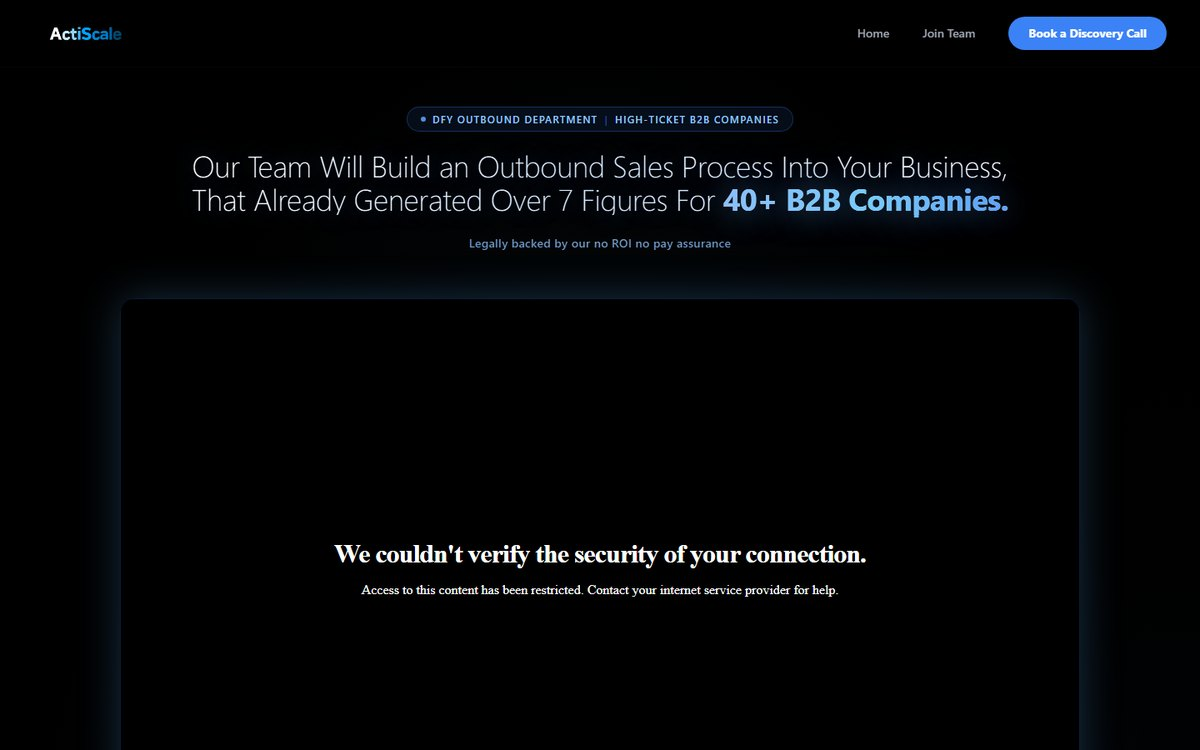
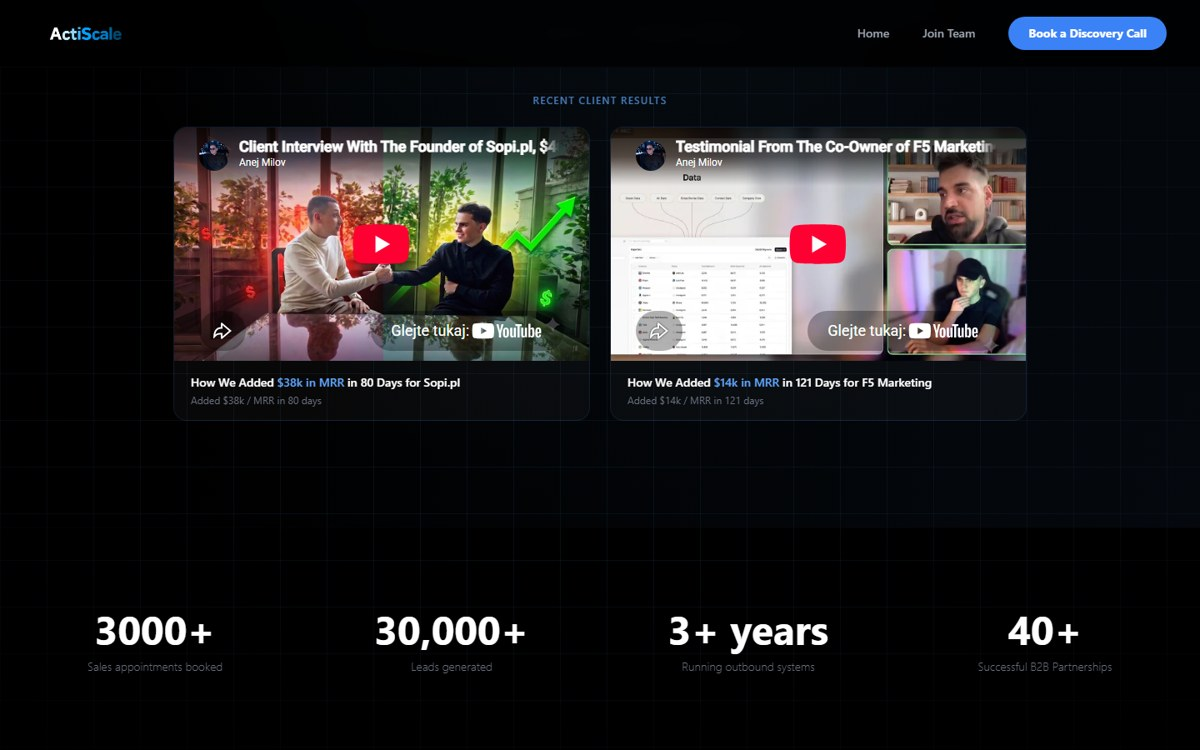
Deck: ACTISCALE, results screenshot + video line

diff --git a/actiscale/index.html b/actiscale/index.html
@@ -141,7 +141,7 @@ p{margin:0}
   <div class="eyebrow in">What we saw</div>
   <h2 class="in">What we saw at <span class="mark">ACTISCALE</span></h2>
   <div class="saw in">
-    <div class="lines"><p>A done for you outbound department for high ticket B2B companies, backed by a no ROI no pay assurance.</p><p><q>Turn Outreach Into Revenue.</q> 3000+ sales appointments booked and 40+ B2B partnerships.</p><p class="turn">Client results like Sopi.pl and F5 Marketing are told in text today. There is no video yet that shows the team or the process.</p></div>
+    <div class="lines"><p>A done for you outbound department for high ticket B2B companies, backed by a no ROI no pay assurance.</p><p><q>Turn Outreach Into Revenue.</q> 3000+ sales appointments booked and 40+ B2B partnerships.</p><p class="turn">Client interviews with Sopi.pl and F5 Marketing are already on video. Today they live on the site and on YouTube.</p></div>
     <figure class="shot"><img src="../assets/shots/actiscale.jpg" alt="ACTISCALE website"><figcaption>actiscale.com, today</figcaption></figure>
   </div>
 </div></section>
@@ -151,9 +151,9 @@ p{margin:0}
   <h2 class="in">Video that turns <span class="mark">views into calls</span>.</h2>
   <div class="cols in">
     <div class="col"><span class="lab">Organic video</span><h3>Seen as the authority.</h3>
-      <ul><li>Short case videos on client results like Sopi.pl and F5 Marketing</li><li>Long and short form video, planned around what your clients ask</li><li>Filmed on one content day, then edited and posted for you</li></ul></div>
+      <ul><li>Short clips cut from your Sopi.pl and F5 Marketing client interviews</li><li>Long and short form video, planned around what your clients ask</li><li>Filmed on one content day, then edited and posted for you</li></ul></div>
     <div class="col"><span class="lab">Paid ads</span><h3>Seen by the right people.</h3>
-      <ul><li>Ads that reach high ticket B2B founders with those case videos</li><li>Ad copy and creative cut from the same shoot</li><li>Weekly ad reporting, then more of what works</li></ul></div>
+      <ul><li>Ads that put those clips in front of high ticket B2B founders</li><li>Ad copy and creative cut from the same shoot</li><li>Weekly ad reporting, then more of what works</li></ul></div>
   </div>
   <p class="bottomline in">Both run as one plan, the Leads and Authority Blueprint, with one goal: booked calls with the right clients.</p>
 </div></section>
